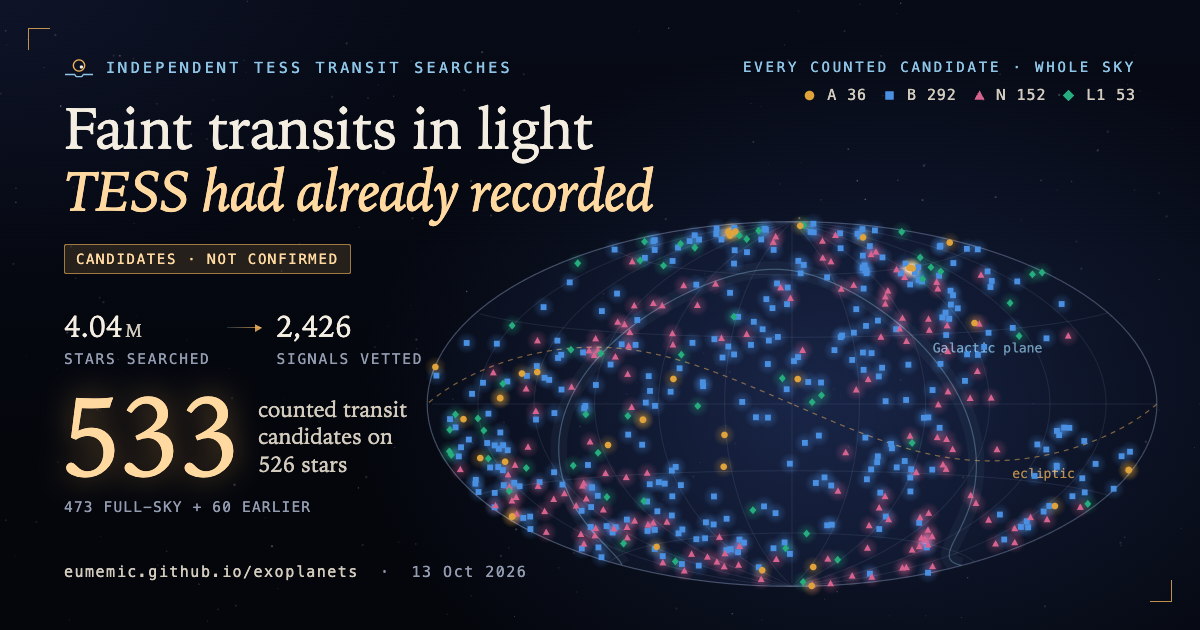
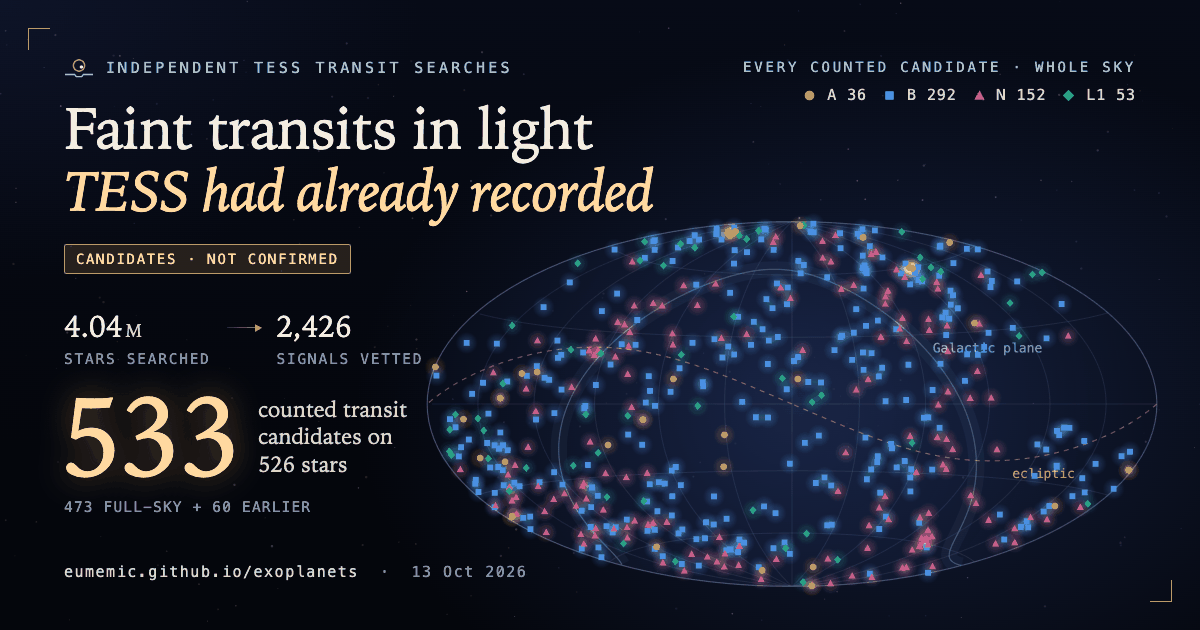
Add 1200x630 social card and Open Graph tags

diff --git a/site/candidates.html b/site/candidates.html
@@ -9,20 +9,20 @@
 <link rel="icon" href="favicon.svg" type="image/svg+xml">
 <link rel="icon" href="favicon-32.png" type="image/png" sizes="32x32">
 <link rel="apple-touch-icon" href="apple-touch-icon.png">
-<link rel="canonical" href="https://eumemic.github.io/exoplanets/candidates.html">
+<link rel="canonical" href="https://ahrazzle.github.io/exoplanets/candidates.html">
 <meta property="og:type" content="website">
 <meta property="og:site_name" content="TESS transit candidates">
 <meta property="og:title" content="Candidate explorer | TESS transit candidates">
 <meta property="og:description" content="Sortable, filterable table of every TESS transit candidate signal from the eumemic/exoplanets searches, with vetting plots. Planet candidates, not confirmed planets.">
-<meta property="og:url" content="https://eumemic.github.io/exoplanets/candidates.html">
-<meta property="og:image" content="https://eumemic.github.io/exoplanets/og.png">
+<meta property="og:url" content="https://ahrazzle.github.io/exoplanets/candidates.html">
+<meta property="og:image" content="https://ahrazzle.github.io/exoplanets/og.png">
 <meta property="og:image:width" content="1200">
 <meta property="og:image:height" content="630">
 <meta property="og:image:alt" content="A whole-sky map of every counted TESS transit candidate, glowing in the colours of their reliability tiers, beside the title Faint transits in light TESS had already recorded, the tag Candidates, not confirmed, and the search funnel from 4.04 million stars to the number of counted candidates.">
 <meta name="twitter:card" content="summary_large_image">
 <meta name="twitter:title" content="Candidate explorer | TESS transit candidates">
 <meta name="twitter:description" content="Sortable, filterable table of every TESS transit candidate signal from the eumemic/exoplanets searches, with vetting plots. Planet candidates, not confirmed planets.">
-<meta name="twitter:image" content="https://eumemic.github.io/exoplanets/og.png">
+<meta name="twitter:image" content="https://ahrazzle.github.io/exoplanets/og.png">
 <meta name="twitter:image:alt" content="A whole-sky map of every counted TESS transit candidate, glowing in the colours of their reliability tiers, beside the title Faint transits in light TESS had already recorded, the tag Candidates, not confirmed, and the search funnel from 4.04 million stars to the number of counted candidates.">
 <script>document.documentElement.className += ' js';</script>
 <link rel="stylesheet" href="style.css">

diff --git a/site/methods.html b/site/methods.html
@@ -9,20 +9,20 @@
 <link rel="icon" href="favicon.svg" type="image/svg+xml">
 <link rel="icon" href="favicon-32.png" type="image/png" sizes="32x32">
 <link rel="apple-touch-icon" href="apple-touch-icon.png">
-<link rel="canonical" href="https://eumemic.github.io/exoplanets/methods.html">
+<link rel="canonical" href="https://ahrazzle.github.io/exoplanets/methods.html">
 <meta property="og:type" content="website">
 <meta property="og:site_name" content="TESS transit candidates">
 <meta property="og:title" content="Methods and validation | TESS transit candidates">
 <meta property="og:description" content="Plain-language summary of the TESS transit search and vetting pipeline of eumemic/exoplanets, with links to each validation note.">
-<meta property="og:url" content="https://eumemic.github.io/exoplanets/methods.html">
-<meta property="og:image" content="https://eumemic.github.io/exoplanets/og.png">
+<meta property="og:url" content="https://ahrazzle.github.io/exoplanets/methods.html">
+<meta property="og:image" content="https://ahrazzle.github.io/exoplanets/og.png">
 <meta property="og:image:width" content="1200">
 <meta property="og:image:height" content="630">
 <meta property="og:image:alt" content="A whole-sky map of every counted TESS transit candidate, glowing in the colours of their reliability tiers, beside the title Faint transits in light TESS had already recorded, the tag Candidates, not confirmed, and the search funnel from 4.04 million stars to the number of counted candidates.">
 <meta name="twitter:card" content="summary_large_image">
 <meta name="twitter:title" content="Methods and validation | TESS transit candidates">
 <meta name="twitter:description" content="Plain-language summary of the TESS transit search and vetting pipeline of eumemic/exoplanets, with links to each validation note.">
-<meta name="twitter:image" content="https://eumemic.github.io/exoplanets/og.png">
+<meta name="twitter:image" content="https://ahrazzle.github.io/exoplanets/og.png">
 <meta name="twitter:image:alt" content="A whole-sky map of every counted TESS transit candidate, glowing in the colours of their reliability tiers, beside the title Faint transits in light TESS had already recorded, the tag Candidates, not confirmed, and the search funnel from 4.04 million stars to the number of counted candidates.">
 <script>document.documentElement.className += ' js';</script>
 <link rel="stylesheet" href="style.css">

diff --git a/site/transits.html b/site/transits.html
@@ -9,20 +9,20 @@
 <link rel="icon" href="favicon.svg" type="image/svg+xml">
 <link rel="icon" href="favicon-32.png" type="image/png" sizes="32x32">
 <link rel="apple-touch-icon" href="apple-touch-icon.png">
-<link rel="canonical" href="https://eumemic.github.io/exoplanets/transits.html">
+<link rel="canonical" href="https://ahrazzle.github.io/exoplanets/transits.html">
 <meta property="og:type" content="website">
 <meta property="og:site_name" content="TESS transit candidates">
 <meta property="og:title" content="Transit planner | TESS transit candidates">
 <meta property="og:description" content="Predicted mid-transit times of the TESS transit candidates from eumemic/exoplanets, for observers planning follow-up photometry.">
-<meta property="og:url" content="https://eumemic.github.io/exoplanets/transits.html">
-<meta property="og:image" content="https://eumemic.github.io/exoplanets/og.png">
+<meta property="og:url" content="https://ahrazzle.github.io/exoplanets/transits.html">
+<meta property="og:image" content="https://ahrazzle.github.io/exoplanets/og.png">
 <meta property="og:image:width" content="1200">
 <meta property="og:image:height" content="630">
 <meta property="og:image:alt" content="A whole-sky map of every counted TESS transit candidate, glowing in the colours of their reliability tiers, beside the title Faint transits in light TESS had already recorded, the tag Candidates, not confirmed, and the search funnel from 4.04 million stars to the number of counted candidates.">
 <meta name="twitter:card" content="summary_large_image">
 <meta name="twitter:title" content="Transit planner | TESS transit candidates">
 <meta name="twitter:description" content="Predicted mid-transit times of the TESS transit candidates from eumemic/exoplanets, for observers planning follow-up photometry.">
-<meta name="twitter:image" content="https://eumemic.github.io/exoplanets/og.png">
+<meta name="twitter:image" content="https://ahrazzle.github.io/exoplanets/og.png">
 <meta name="twitter:image:alt" content="A whole-sky map of every counted TESS transit candidate, glowing in the colours of their reliability tiers, beside the title Faint transits in light TESS had already recorded, the tag Candidates, not confirmed, and the search funnel from 4.04 million stars to the number of counted candidates.">
 <script>document.documentElement.className += ' js';</script>
 <link rel="stylesheet" href="style.css">

diff --git a/site/index.html b/site/index.html
@@ -9,20 +9,20 @@
 <link rel="icon" href="favicon.svg" type="image/svg+xml">
 <link rel="icon" href="favicon-32.png" type="image/png" sizes="32x32">
 <link rel="apple-touch-icon" href="apple-touch-icon.png">
-<link rel="canonical" href="https://eumemic.github.io/exoplanets/">
+<link rel="canonical" href="https://ahrazzle.github.io/exoplanets/">
 <meta property="og:type" content="website">
 <meta property="og:site_name" content="TESS transit candidates">
 <meta property="og:title" content="Faint transits in light TESS had already recorded">
 <meta property="og:description" content="Independent multi-sector searches of NASA TESS light curves for small transiting planets. Candidates, not confirmed planets.">
-<meta property="og:url" content="https://eumemic.github.io/exoplanets/">
-<meta property="og:image" content="https://eumemic.github.io/exoplanets/og.png">
+<meta property="og:url" content="https://ahrazzle.github.io/exoplanets/">
+<meta property="og:image" content="https://ahrazzle.github.io/exoplanets/og.png">
 <meta property="og:image:width" content="1200">
 <meta property="og:image:height" content="630">
 <meta property="og:image:alt" content="A whole-sky map of every counted TESS transit candidate, glowing in the colours of their reliability tiers, beside the title Faint transits in light TESS had already recorded, the tag Candidates, not confirmed, and the search funnel from 4.04 million stars to the number of counted candidates.">
 <meta name="twitter:card" content="summary_large_image">
 <meta name="twitter:title" content="Faint transits in light TESS had already recorded">
 <meta name="twitter:description" content="Independent multi-sector searches of NASA TESS light curves for small transiting planets. Candidates, not confirmed planets.">
-<meta name="twitter:image" content="https://eumemic.github.io/exoplanets/og.png">
+<meta name="twitter:image" content="https://ahrazzle.github.io/exoplanets/og.png">
 <meta name="twitter:image:alt" content="A whole-sky map of every counted TESS transit candidate, glowing in the colours of their reliability tiers, beside the title Faint transits in light TESS had already recorded, the tag Candidates, not confirmed, and the search funnel from 4.04 million stars to the number of counted candidates.">
 <script>document.documentElement.className += ' js';</script>
 <link rel="stylesheet" href="style.css">
